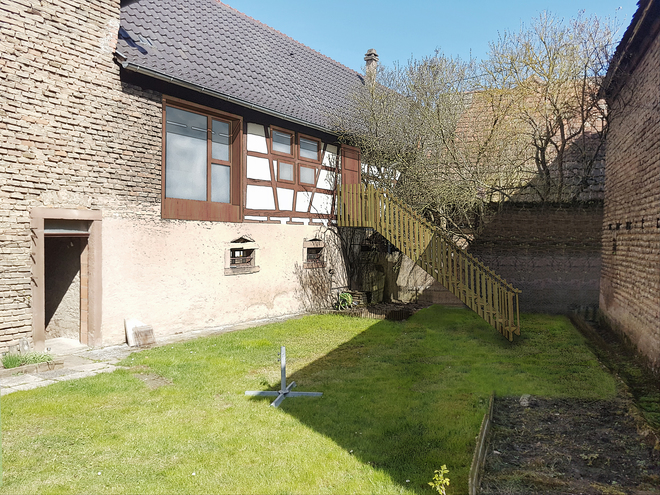
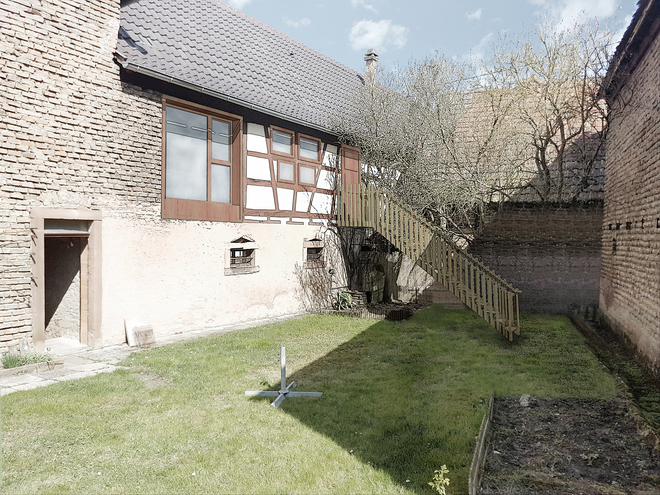
Add changes

diff --git a/public/posts/goxwiller/index.html b/public/posts/goxwiller/index.html
@@ -9,13 +9,9 @@
     <div class="navbar-brand">
         <div class="navbar-item">
             <a href="/" class="flex-center">
-                <figure class="image is-128x128">
-                    <img src="/img/logo.png">
+                <figure class="image">
+                    <img src="/img/logo_lettering.png">
                 </figure>
-                <div>
-                    <h1 class="title">Aurélien SUCHET</h1>
-                    <h2 class="subtitle">Architecte</h2>
-                </div>
             </a>
 
         </div>
@@ -55,27 +51,27 @@
 
                 
                 <figure class="image margin-bottom-2">
-                    <img src="/img/goxwiller/DSC_1318_m_D_Web.jpg">
+                    <img src="/img/goxwiller/small/DSC_1318_m_D_Web.jpg">
                 </figure>
                 
                 <figure class="image margin-bottom-2">
-                    <img src="/img/goxwiller/DSC_1313_m_D_Web.jpg">
+                    <img src="/img/goxwiller/small/DSC_1313_m_D_Web.jpg">
                 </figure>
                 
                 <figure class="image margin-bottom-2">
-                    <img src="/img/goxwiller/DSC_1320_m_D_Web.jpg">
+                    <img src="/img/goxwiller/small/DSC_1320_m_D_Web.jpg">
                 </figure>
                 
                 <figure class="image margin-bottom-2">
-                    <img src="/img/goxwiller/DSC_1322_m_D_Web.jpg">
+                    <img src="/img/goxwiller/small/DSC_1322_m_D_Web.jpg">
                 </figure>
                 
                 <figure class="image margin-bottom-2">
-                    <img src="/img/goxwiller/DSC_1612_m_D_Web.jpg">
+                    <img src="/img/goxwiller/small/DSC_1612_m_D_Web.jpg">
                 </figure>
                 
                 <figure class="image margin-bottom-2">
-                    <img src="/img/goxwiller/DSC_1622_m_D_Web.jpg">
+                    <img src="/img/goxwiller/small/DSC_1622_m_D_Web.jpg">
                 </figure>
                 
 

diff --git a/public/index.html b/public/index.html
@@ -10,13 +10,9 @@
     <div class="navbar-brand">
         <div class="navbar-item">
             <a href="/" class="flex-center">
-                <figure class="image is-128x128">
-                    <img src="/img/logo.png">
+                <figure class="image">
+                    <img src="/img/logo_lettering.png">
                 </figure>
-                <div>
-                    <h1 class="title">Aurélien SUCHET</h1>
-                    <h2 class="subtitle">Architecte</h2>
-                </div>
             </a>
 
         </div>
@@ -57,7 +53,7 @@
             <div class="columns">
                 <div class="column image-column">
                     
-                    <a href="/posts/goxwiller/"> <figure class="image"><img src="/img/goxwiller/DSC_1318_m_D_Web.jpg"></figure>
+                    <a href="/posts/goxwiller/"> <figure class="image"><img src="/img/goxwiller/small/DSC_1318_m_D_Web.jpg"></figure>
                         <div>
                             <span class="subtitle">Extension et restructuration d’une école maternelle et élémentaire</span>
                             <p>Goxwiller (67)</p>
@@ -65,7 +61,7 @@
                         </div>
                     </a>
                     
-                    <a href="/posts/appartement17/"> <figure class="image"><img src="/img/appartment17/17RPL-DR_Persext_Web.jpg"></figure>
+                    <a href="/posts/appartement17/"> <figure class="image"><img src="/img/appartment17/small/17RPL-DR_Persext_Web.jpg"></figure>
                         <div>
                             <span class="subtitle">Appartement 17</span>
                             <p>Lampertheim (67)</p>

diff --git a/public/posts/appartement17/index.html b/public/posts/appartement17/index.html
@@ -9,13 +9,9 @@
     <div class="navbar-brand">
         <div class="navbar-item">
             <a href="/" class="flex-center">
-                <figure class="image is-128x128">
-                    <img src="/img/logo.png">
+                <figure class="image">
+                    <img src="/img/logo_lettering.png">
                 </figure>
-                <div>
-                    <h1 class="title">Aurélien SUCHET</h1>
-                    <h2 class="subtitle">Architecte</h2>
-                </div>
             </a>
 
         </div>
@@ -55,15 +51,15 @@
 
                 
                 <figure class="image margin-bottom-2">
-                    <img src="/img/appartment17/17RPL-DR_Persext_Web.jpg">
+                    <img src="/img/appartment17/small/17RPL-DR_Persext_Web.jpg">
                 </figure>
                 
                 <figure class="image margin-bottom-2">
-                    <img src="/img/appartment17/2_AXOajour.jpg">
+                    <img src="/img/appartment17/small/2_AXOajour.jpg">
                 </figure>
                 
                 <figure class="image margin-bottom-2">
-                    <img src="/img/appartment17/3_FacadeSUD.jpg">
+                    <img src="/img/appartment17/small/3_FacadeSUD.jpg">
                 </figure>
                 
 

diff --git a/themes/suchet/layouts/index.html b/themes/suchet/layouts/index.html
@@ -8,7 +8,7 @@
     <section class="section is-below-nav">
         <div class="container">
             <div class="columns">
-                <div class="column image-column">
+                <div class="column is-half image-column">
                     {{ range (first 10 $section) }}
                     <a href="{{.URL}}"> <figure class="image"><img src="/img/{{index .Params.images 0}}"></figure>
                         <div>
@@ -19,8 +19,6 @@
                     </a>
                     {{ end }}
 
-                </div>
-                <div class="column image-column">
                 </div>
             </div>
         </div>

diff --git a/public/contact/index.html b/public/contact/index.html
@@ -9,13 +9,9 @@
     <div class="navbar-brand">
         <div class="navbar-item">
             <a href="/" class="flex-center">
-                <figure class="image is-128x128">
-                    <img src="/img/logo.png">
+                <figure class="image">
+                    <img src="/img/logo_lettering.png">
                 </figure>
-                <div>
-                    <h1 class="title">Aurélien SUCHET</h1>
-                    <h2 class="subtitle">Architecte</h2>
-                </div>
             </a>
 
         </div>

diff --git a/public/presentation/index.html b/public/presentation/index.html
@@ -9,13 +9,9 @@
     <div class="navbar-brand">
         <div class="navbar-item">
             <a href="/" class="flex-center">
-                <figure class="image is-128x128">
-                    <img src="/img/logo.png">
+                <figure class="image">
+                    <img src="/img/logo_lettering.png">
                 </figure>
-                <div>
-                    <h1 class="title">Aurélien SUCHET</h1>
-                    <h2 class="subtitle">Architecte</h2>
-                </div>
             </a>
 
         </div>

diff --git a/themes/suchet/layouts/posts/single.html b/themes/suchet/layouts/posts/single.html
@@ -17,7 +17,9 @@
                 <h2 class="title is-4">{{.Description}}</h2>
                 <h3 class="subtitle is-6">{{.Params.location}}</h3>
 
-                <p class="color-green margin-bottom">Rénovation BBC</p>
+                {{.Content}}
+
+                <br />
 
                 <h4 class="title is-6">Maîtrise d’ouvrage :</h4>
                 <p class="subtitle is-6 is-spaced">{{.Params.client}}</p>

diff --git a/themes/suchet/layouts/_default/single.html b/themes/suchet/layouts/_default/single.html
@@ -5,12 +5,9 @@
 <section class="section is-below-nav">
     <div class="container">
         <div class="columns">
-            <div class="column">
+            <div class="column is-half">
 
-
-                <h3 class="subtitle is-3">{{.Description}}</h3>
                 {{.Content}}
-
 
             </div>
         </div>

diff --git a/public/css/custom.css b/public/css/custom.css
@@ -1,8 +1,9 @@
-
+/*
 @font-face {
     font-family: Kozuka;
     src: url("/font/KozukaGothicProH.otf") format("opentype");
 }
+*/
 
 .image-column > a {
     position: relative;

diff --git a/static/css/custom.css b/static/css/custom.css
@@ -47,10 +47,6 @@
     align-items: center;
 }
 
-.color-green {
-    color: green;
-}
-
 dl > dt {
     float: left;
     font-weight: 600;

diff --git a/content/presentation.md b/content/presentation.md
@@ -3,38 +3,65 @@ title: "Presentation"
 
 ---
 
-<figure class="image">
-    <img src="/img/crokaxe.png">
+<figure class="image margin-bottom-2">
+    <img src="/img/small/DSC_0336-3.jpg">
 </figure>
 
-Aurélien SUCHET
+**Aurélien SUCHET**
+
 Architecte D.E (H.M.O.N.P)
 
-Parcours :
-2018 : Architecte libéral à Strasbourg
-2018 : Inscription à l'Ordre National des Architectes
-2017 à avril 2018 : Architecte collaborateur salarié au sein de LOCUS Architectes à Strasbourg
-2017 : Obtention de l'Habilitation à la Maîtrise d'Œuvre en son Nom Propre à l’ENSAS
-2012 à 2017 : Architecte collaborateur salarié au sein de la l'agence d'architecture de N. Larché    et N. Metzger à Strasbourg
-2015 : Formation qualifiante « Eco-rénovation du bâti ancien » à l’INSA de Strasbourg
-2012 : Diplômé d'Etat en Architecture à l’ENSAS
-	Projet de Fin d’Etudes avec mention Très Bien :
-« Un nouvel Opéra pour la ville de Marseille »
-	Études supérieures en architecture à l’ENSAS : Licence et Master
-2011 : Agence N. Larché et N. Metzger, architectes d.p.l.g à Strasbourg
-2011 : Atelier Moleskine Architectes à Rosheim
-2010 : Pinkélé Architecte à Schirmeck 
-2007 : Diplôme de Brevet de Technicien Collaborateur d'Architecte
-	Études secondaires au Lycée Le Corbusier à Illkirch-Graffenstaden
+**Parcours :**
+
+2018 : **Architecte libéral** à Strasbourg
+
+2018 : Inscription à l'Ordre National des Architectes
+
+2017 à avril 2018 : Architecte collaborateur salarié au sein de **LOCUS Architectes** à Strasbourg
+
+2017 : Obtention de l'Habilitation à la Maîtrise d'Œuvre en son Nom Propre (H.MO.N.P) à l’ENSAS
+
+2015 : Formation qualifiante « **Eco-rénovation du bâti ancien** » à l’INSA de Strasbourg
+
+2012 à 2017 : Architecte collaborateur salarié au sein de la l'agence d'architecture
+
+de **N. Larché et N. Metzger** à Strasbourg
+
+2012 : Diplômé d'Etat en Architecture à l’ENSAS
+
+**Projet de Fin d’Etudes avec mention Très Bien :**
+
+**_« Un nouvel Opéra pour la ville de Marseille »_**
+
+Études supérieures en architecture à l’ENSAS : Licence et Master
 
 
 
+2011 : Agence d'architecture N. Larché et N. Metzger, architectes d.p.l.g à Strasbourg
 
-L’architecture :
+2011 : **Atelier Moleskine** Architectes à Rosheim
+
+2010 : **Pinkélé Architecte** à Schirmeck
+
+
+
+2007 : Diplôme de Brevet de Technicien Collaborateur d'Architecte
+
+Études secondaires au Lycée Le Corbusier à Illkirch-Graffenstaden
+
+
+<figure class="image">
+    <img src="/img/small/crokaxe.png">
+</figure>
+
+**L’architecture :**
 
 Mon expérience me permet dorénavant d’aborder un projet à travers une réflexion globale. Qu’il s’agisse d’une extension, d’une rénovation d’un appartement ou la construction neuve d’une maison ou d’un équipement, mon but est d’intégrer toutes les contraintes actuelles et d’anticiper les futures afin de concevoir un projet adapté aux besoins de chacun. Par une démarche personnalisée, mon objectif est d’apporter mon savoir-faire afin de contribuer à la création d’un projet unique et durable.
 
-Les notions qui me semblent primordiales dans ma pratique sont l’Espace, le Détail et l’Environnement.
-« L’espace » doit être caractérisé et lumineux, mais avant tout être adapté aux modes d’habiter de chacun et ce, pour l’ensemble des lieux de vie.
-« Le Détail » demande un travail de conception plus abouti par un dessin spécifique de chaque élément constructif contribuant ainsi à magnifier les Espaces.
-"L’environnement" dans ses différentes définitions, doit faire partie intégrante de la conception, y penser lors des premiers coups de crayon permet de réduire l'impact du projet lors de la construction mais aussi dans ses usages.
+Les notions qui me semblent primordiales dans ma pratique sont l’Espace, le Détail et l’Environnement.
+
+« **L’Espace** » doit être caractérisé et lumineux, mais avant tout être adapté aux modes d’habiter de chacun et ce, pour l’ensemble des lieux de vie.
+
+« **Le Détail** » demande un travail de conception plus abouti par un dessin spécifique de chaque élément constructif contribuant ainsi à magnifier les Espaces.
+
+« **L’Environnement** » dans ses différentes définitions, doit faire partie intégrante de la conception, y penser lors des premiers coups de crayon permet de réduire l'impact du projet lors de la construction mais aussi dans ses usages.

diff --git a/content/posts/appartement17.md b/content/posts/appartement17.md
@@ -14,3 +14,5 @@ images: [
 'appartment17/small/3_FacadeSUD.jpg',
 ]
 ---
+
+Le projet consiste à aménager un appartement de 50m2 dans un grenier au sein d'un corps de ferme alsacien traditionnel. Après avoir « joué » avec les nombreuses contraintes, il en résulte un logement de caractère. Des ouvertures sont créées en façade SUD permettant de profiter de l'exposition et d’une vue sur le jardin. La façade NORD quant à elle ne subit aucune modification ce qui préserve l'esthétique existante de la cour du corps de ferme. L’ambiance intérieure, se caractérise par la présence d’une double hauteur et d’un éclairage zénithal qui procurent une sensation d’espace et un confort d'usage. Le volume intérieur principal se compose de plusieurs espaces identifiables (cuisine, séjour, mezzanine) qui forment un ensemble continu. La charpente traditionnelle existante, conservée au maximum et maintenue visible, renforce le cachet de l'appartement et s'harmonise avec les matériaux neufs mis en œuvre.
